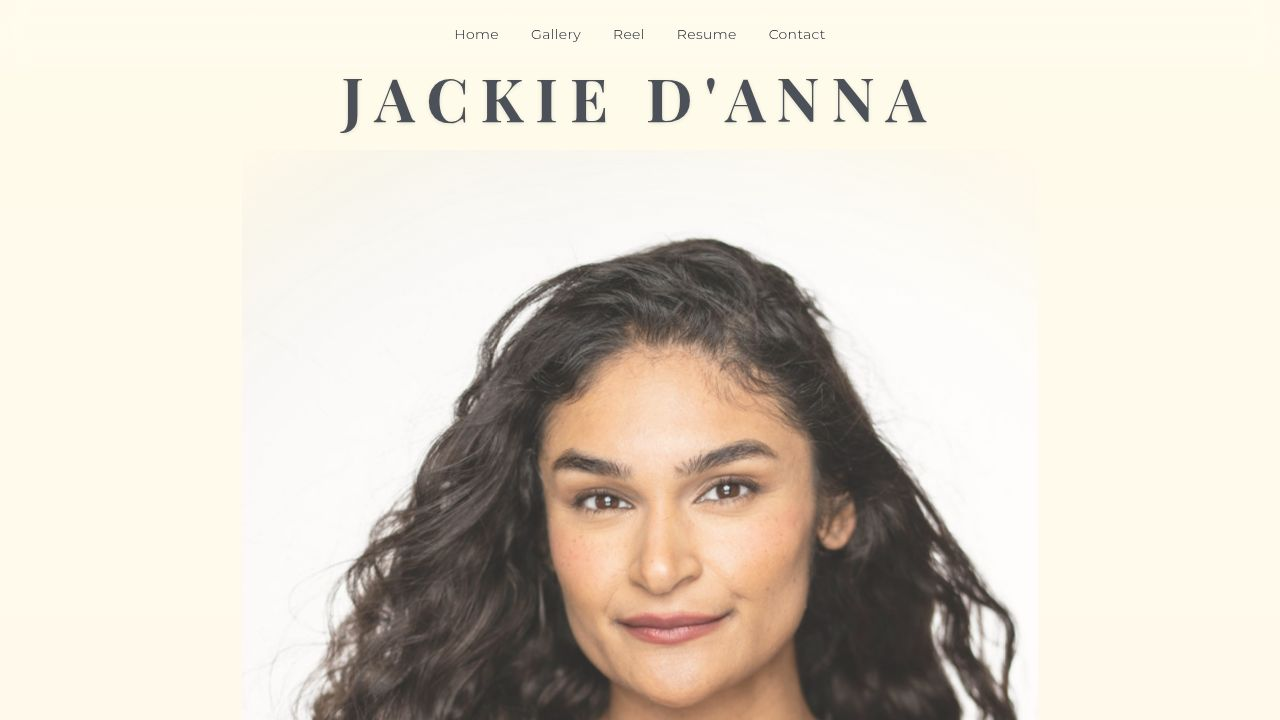
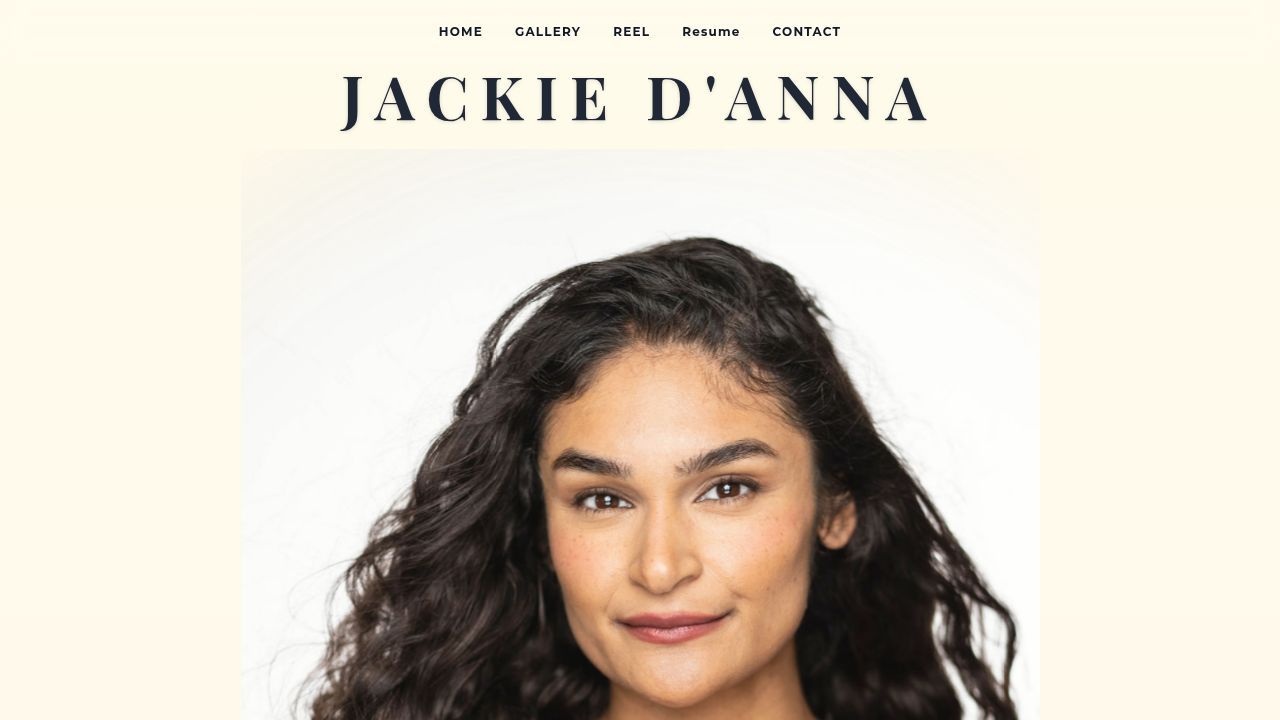
Make navigation bar text bold and uppercase for a refined look
Update navigation bar styles in Contact, Gallery, Home, and Reel components to use font-bold, tracking-widest, and uppercase for a more prominent display.

Replit-Commit-Author: Agent
Replit-Commit-Session-Id: 2afaccc5-3014-4dd8-a04b-2e373a2a9aad
Replit-Commit-Checkpoint-Type: full_checkpoint
Replit-Commit-Event-Id: 59177408-89ce-4d2a-b23f-af03a3fce0ef
Replit-Commit-Screenshot-Url: https://storage.googleapis.com/screenshot-production-us-central1/823f3cb0-065d-4b5f-ac53-940694b62e66/2afaccc5-3014-4dd8-a04b-2e373a2a9aad/GXqHXJg
Replit-Helium-Checkpoint-Created: true

diff --git a/client/src/pages/Home.tsx b/client/src/pages/Home.tsx
@@ -37,7 +37,7 @@ export default function Home() {
       {/* Navigation Header - Fixed */}
       <header className="fixed top-0 left-0 right-0 w-full bg-white/10 backdrop-blur-md border-b border-white/10 py-4 md:py-6 z-50 transition-all duration-300">
         <nav className="flex justify-center items-center">
-          <div className="flex gap-4 md:gap-8 font-light tracking-wide text-xs md:text-sm items-center text-gray-900">
+          <div className="flex gap-4 md:gap-8 font-bold tracking-widest text-[10px] md:text-xs items-center text-gray-900 uppercase">
             <a href="#" className="hover:text-primary transition-colors">Home</a>
             <Link href="/gallery">
               <a className="hover:text-primary transition-colors">Gallery</a>

diff --git a/client/src/pages/Gallery.tsx b/client/src/pages/Gallery.tsx
@@ -62,7 +62,7 @@ export default function Gallery() {
       {/* Navigation Header - Fixed */}
       <header className="fixed top-0 left-0 right-0 w-full bg-white/10 backdrop-blur-md border-b border-white/10 py-4 md:py-6 z-50 transition-all duration-300">
         <nav className="flex justify-center items-center">
-          <div className="flex gap-4 md:gap-8 font-light tracking-wide text-xs md:text-sm items-center text-gray-900">
+          <div className="flex gap-4 md:gap-8 font-bold tracking-widest text-[10px] md:text-xs items-center text-gray-900 uppercase">
             <Link href="/">
               <a className="hover:text-primary transition-colors">Home</a>
             </Link>

diff --git a/client/src/pages/Reel.tsx b/client/src/pages/Reel.tsx
@@ -39,7 +39,7 @@ export default function Reel() {
       {/* Navigation Header - Fixed */}
       <header className="fixed top-0 left-0 right-0 w-full bg-white/10 backdrop-blur-md border-b border-white/10 py-4 md:py-6 z-50 transition-all duration-300">
         <nav className="flex justify-center items-center">
-          <div className="flex gap-4 md:gap-8 font-light tracking-wide text-xs md:text-sm items-center text-gray-900">
+          <div className="flex gap-4 md:gap-8 font-bold tracking-widest text-[10px] md:text-xs items-center text-gray-900 uppercase">
             <Link href="/">
               <a className="hover:text-primary transition-colors">Home</a>
             </Link>

diff --git a/client/src/pages/Contact.tsx b/client/src/pages/Contact.tsx
@@ -55,7 +55,7 @@ export default function Contact() {
       {/* Navigation Header */}
       <header className="fixed top-0 left-0 right-0 w-full bg-white/10 backdrop-blur-md border-b border-white/10 py-4 md:py-6 z-50">
         <nav className="flex justify-center items-center">
-          <div className="flex gap-4 md:gap-8 font-light tracking-wide text-xs md:text-sm items-center text-gray-900">
+          <div className="flex gap-4 md:gap-8 font-bold tracking-widest text-[10px] md:text-xs items-center text-gray-900 uppercase">
             <Link href="/">
               <a className="hover:text-primary transition-colors">Home</a>
             </Link>
